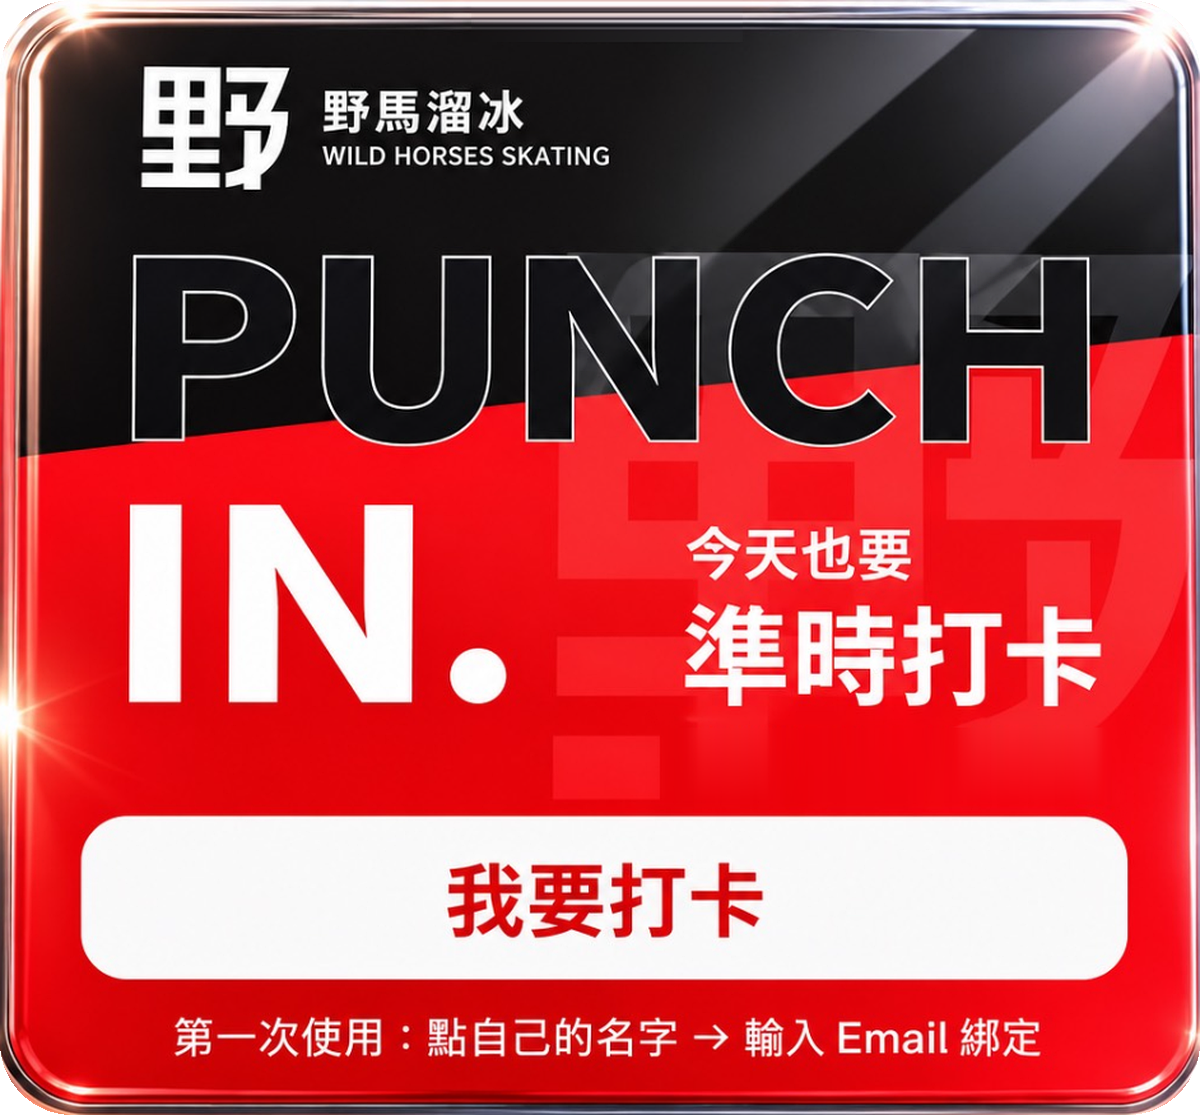
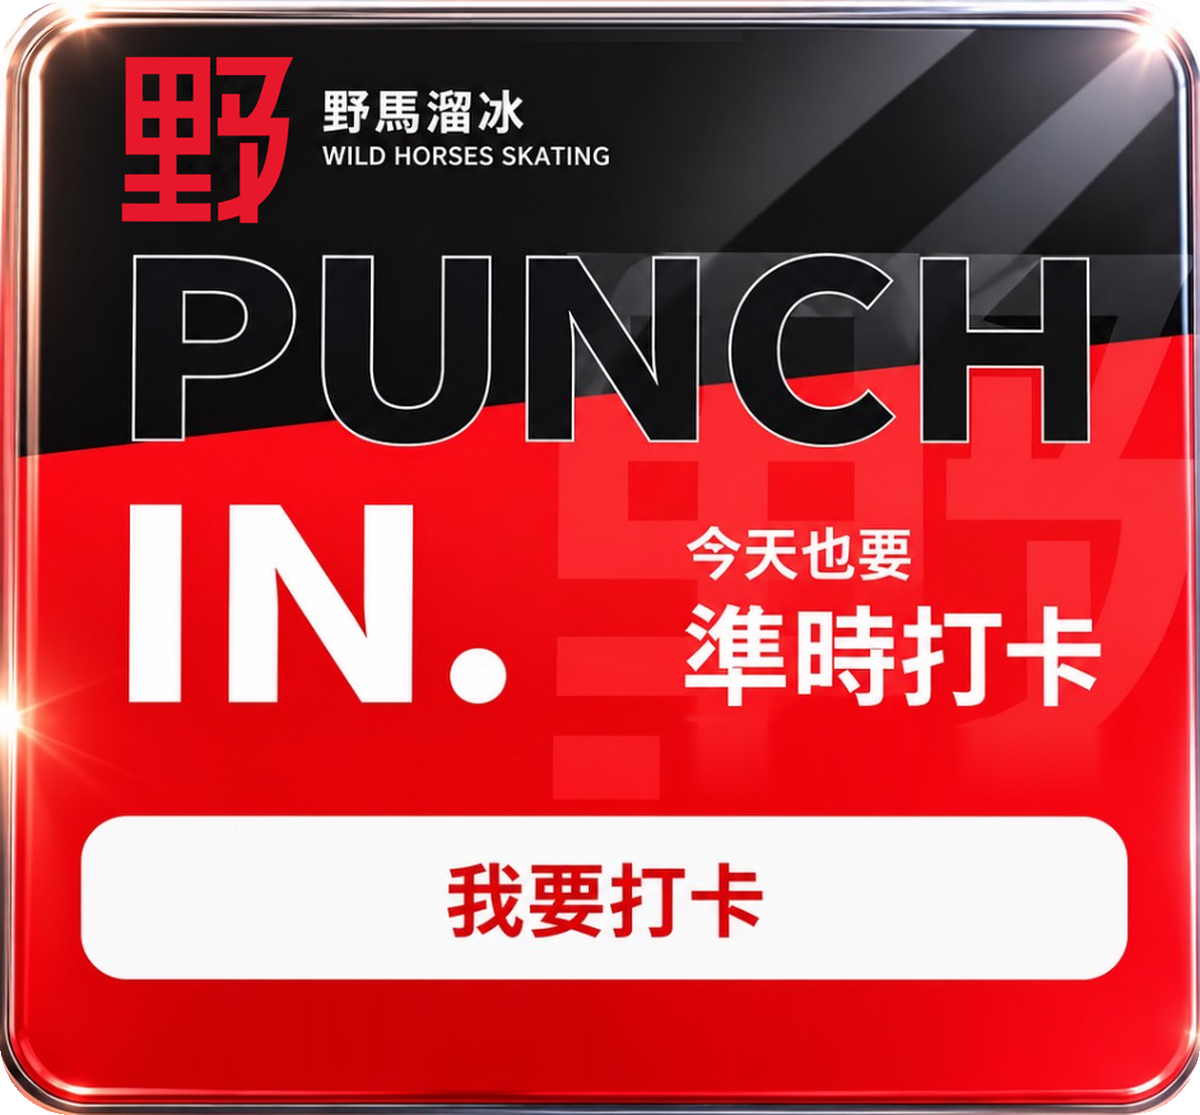
分享吊牌：左上野改紅色完整字、移除第一次使用說明
Claude-Session: https://claude.ai/code/session_01SgUoPMs89Ch7rWoMucrYnN

Changed region(s): [[0.0925, 0.0305, 0.2467, 0.2135], [0.1233, 0.9148, 0.8633, 0.9453]]

diff --git a/app.js b/app.js
@@ -6,7 +6,7 @@ import {
   initializeFirestore, doc, getDoc, setDoc as _setDoc, updateDoc as _updateDoc, deleteDoc as _deleteDoc, addDoc as _addDoc,
   collection, query, where, getDocs, serverTimestamp, writeBatch as _writeBatch, deleteField, arrayUnion, arrayRemove
 } from "https://www.gstatic.com/firebasejs/10.12.2/firebase-firestore.js";
-import { firebaseConfig, LIFF_ID, WORKER_URL } from "./config.js?v=82";
+import { firebaseConfig, LIFF_ID, WORKER_URL } from "./config.js?v=83";
 
 /* 整個月的大量查詢（報表、薪資、排班）暫存 3 分鐘，省 Firestore 讀取額度；任何寫入都會清掉暫存 */
 const MEMO = new Map();
@@ -865,7 +865,7 @@ $("#sharePunchBtn").onclick = async () => {
   const flex = { type: "flex", altText: "今天也要準時打卡｜野馬溜冰打卡系統", contents: {
     type: "bubble",
     styles: { hero: { backgroundColor: "#00000000" } },
-    hero: { type: "image", url: "https://wild-horses-skating.pages.dev/share-card.png?v=12", size: "full", aspectRatio: "1200:1115", aspectMode: "fit", action: { type: "uri", label: "我要打卡", uri: PUNCH_URL } } } };
+    hero: { type: "image", url: "https://wild-horses-skating.pages.dev/share-card.png?v=13", size: "full", aspectRatio: "1200:1115", aspectMode: "fit", action: { type: "uri", label: "我要打卡", uri: PUNCH_URL } } } };
   if (me?.role !== "admin") return;
   const ok = await getLiff();
   if (!ok || !liff.isInClient?.()) return appAlert("請在 LINE 裡打開", "圖文卡片只能在 LINE 裡分享，請從 LINE 官方帳號的選單打開打卡系統再按一次。");

diff --git a/index.html b/index.html
@@ -16,7 +16,7 @@
   <title>野馬溜冰打卡系統</title>
   <meta property="og:title" content="野馬溜冰打卡系統">
   <meta property="og:description" content="點這裡上班・下班打卡">
-  <meta property="og:image" content="https://wild-horses-skating.pages.dev/share-card.png?v=12">
+  <meta property="og:image" content="https://wild-horses-skating.pages.dev/share-card.png?v=13">
   <meta property="og:url" content="https://liff.line.me/2012318362-VOU7aFr9?view=clock">
   <meta name="twitter:card" content="summary_large_image">
   <link rel="preconnect" href="https://www.gstatic.com" crossorigin>
@@ -26,7 +26,7 @@
   <link rel="modulepreload" href="https://www.gstatic.com/firebasejs/10.12.2/firebase-app.js">
   <link rel="modulepreload" href="https://www.gstatic.com/firebasejs/10.12.2/firebase-auth.js">
   <link rel="modulepreload" href="https://www.gstatic.com/firebasejs/10.12.2/firebase-firestore.js">
-  <link rel="stylesheet" href="style.css?v=82">
+  <link rel="stylesheet" href="style.css?v=83">
 </head>
 <body>
 
@@ -787,6 +787,6 @@
     }
   }, 25000);
 </script>
-<script type="module" src="app.js?v=82"></script>
+<script type="module" src="app.js?v=83"></script>
 </body>
 </html>
